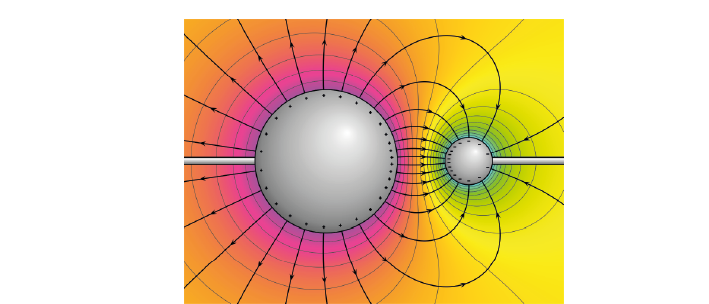
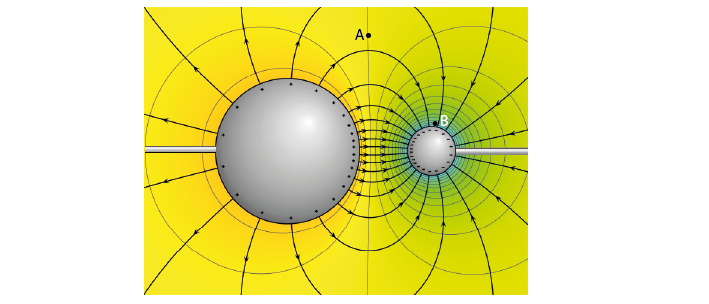
antonin feedback

diff --git a/source/EEA/theoryday1.rst b/source/EEA/theoryday1.rst
@@ -22,13 +22,12 @@ Introduction
 Welcome to the Open Ephys course on extracellular electrophysiology acquisition!
 **********************************************************************************
 
-.. raw:: html
-
+..
   <br>
   <center><iframe width="560" height="340" src="https://www.youtube.com/embed/vE5lZWPT4hQ" title="YouTube video player" frameborder="0" allow="accelerometer; autoplay; clipboard-write; encrypted-media; gyroscope; picture-in-picture" allowfullscreen></iframe></center>
   <br>
 
-Several biological processes in the body generate electrical signals, that we can then detect using an electrode made of a conducting material (see Table 1 for an overview). We can record signals generated through skeletal muscle contraction (EMG), or heartbeat (ECG). In neuroscience, we often use intracranial electrodes to measure action potential firing (spikes) or local field potentials (LFP). Electrodes outside the skull allow us to detect EEG non-invasively.
+Several biological processes in the body generate electrical signals, that we can then detect using an electrode made of a conducting material (see Table 1 for an overview). We can record signals generated through skeletal muscle contraction (Electromyography, EMG), or heartbeat (electrocardiogram, ECG). In neuroscience, we often use intracranial electrodes to measure action potential firing (spikes) or local field potentials (LFP). Electrodes outside the skull allow us to detect EEG non-invasively.
 
 The methods for acquiring these signals have many things in common, which we will discuss in the upcoming sections. We hope that you will learn to appreciate the broad similarities between these techniques, as well as understanding their differences, and what recording adjustments they require.
 When comparing different techniques, it’s important to understand:
@@ -66,7 +65,7 @@ When comparing different techniques, it’s important to understand:
      - Intracranial electrodes, e.g. tetrodes (4 insulated wires twisted together), Single-wire electrodes, Silicon probes.
      - 20-200 µV
 
-The first thing that all these electrophysiology techniques have in common is that the amplitude of the signals we are trying to measure is very small. Obien et al., (2015) gives us a direct comparison between the amplitude of an action potential measured inside the cell (measured in millivolts) and outside the cell (measured in microvolts). All electrophysiology techniques must detect tiny biological signals and convey them safely to a recording system (usually a computer) without losing or changing the signal.
+The first thing that all these electrophysiology techniques have in common is that the amplitude of the signals we are trying to measure is very small. The amplitude of an action potential measured inside the cell is in the range of millivolts, and an action potential recorded outside of the cell is in the range of measured microvolts (Obien et al., 2015). All electrophysiology techniques must detect tiny biological signals and convey them safely to a recording system (usually a computer) without losing or changing the signal.
 
 To do that, they will need to:
 
@@ -81,12 +80,12 @@ Most of the theory in this course will focus on intracranial extracellular recor
 
 What are we measuring?
 ###################################
-Neuronal electrical signalling is mediated by the flow of ions across the cell membrane, both into and out from the cell. These currents, whether at synaptic sites or during action potentials, can be measured as changes in the electric potential at a point in the extracellular space, compared to a reference point. This course will focus on how we get from tiny ion flows in the brain to a signal on our computer. First, we’ll go through a refresher on what these signals really are.
+Neuronal electrical signalling is mediated by the flow of ions across the cell membrane, both into and out from the cell. These currents, whether at synaptic sites or during action potentials, can be measured as changes in the electric potential at a point in the extracellular space, compared to a reference point. First, we’ll go through a refresher on what these signals really are.
 
-Charges and Current
-***********************************
-Our biological signals are usually generated by ions, either positively charged (Na\ :sup:`+`\, |K+|, |Ca2+|)  or negatively charged (|Cl-|).  Electrons are the negatively charged particles in our electrodes and wires (i.e., metal) that allow these to conduct electrical signals.
-Charged particles exert a force on other charged particles.
+Charged particles exert electric force
+*****************************************
+Our biological signals are generated by ions, either positively charged (Na\ :sup:`+`\, |K+|, |Ca2+|)  or negatively charged (|Cl-|).  Electrons are the negatively charged particles in our electrodes and wires (i.e., metal) that allow these components to conduct electrical signals.
+Charged particles exert an electric force on other charged particles.
 
 .. raw:: html
 
@@ -105,7 +104,7 @@ Charged particles exert a force on other charged particles.
       </div>
     </div>
 
-Coulomb’s law (Eq 1) describes that this force will have both magnitude (depending on the size of the charges and the distance between them) and direction (it will either attract or repel, depending on whether the charges have the same polarity).
+Coulomb’s law (Eq 1) describes that this force will have both magnitude (it will be bigger if the charges are larger or closer together) and direction (it will either attract or repel, depending on whether the charges have different or the same polarity).
 
 .. image:: ../_static/images/EEA/eea_fig-1.png
   :align: center
@@ -114,8 +113,7 @@ Coulomb’s law (Eq 1) describes that this force will have both magnitude (depen
 
   <center><i> Figure 1: The magnitude of electric force between charges depends on their charge and the distance between them.</i></center>
 
-
-We often represent electric force with electric field lines surrounding the particle, to show that charges in the vicinity will be influenced by its force in a particular direction.
+We often represent electric force using electric field lines surrounding the particle. These lines show that charges in the vicinity of the particle will be influenced by its force in a particular direction.
 
 .. image:: ../_static/images/EEA/eea_fig-2.png
   :align: center
@@ -124,8 +122,12 @@ We often represent electric force with electric field lines surrounding the part
 
   <center><i> Figure 2: Electric field lines show the direction of the force on a positive charge. Colour intensity represents electric potential</i></center>
 
+If a charged particle is free to move (for instance, it is an ion in the cytoplasm, and not bound to a membrane) and placed within an electrical field, then these forces acting on it will cause it to move in a certain direction.
 
-If a charged particle is free to move (for instance, it is in the cytoplasm, and not bound to a membrane) and placed within an electrical field, then these forces acting on it will cause it to flow in a certain direction, creating a current (I) measured in Ampere. The current tells us how much charge is moving per second.
+
+Currents are moving charges
+***********************************
+Moving charges create a current (I) measured in Ampere. The current tells us how much charge is moving per second.
 
 .. math::
 
@@ -137,19 +139,19 @@ If a charged particle is free to move (for instance, it is in the cytoplasm, and
   <center><i> Equation 2: Current (I) is equal to charge (Q) over time (t).</i></center>
   <br>
 
-
-By convention, the direction of this current is always the direction of positive charge movement. That means that when we talk about currents generated by a negatively charged ion, such as chloride, we describe it as a positive current moving in the opposite direction of the chloride ion.
+By convention, the direction of this current is always the direction of positive charge movement. When we talk about currents generated by a negatively charged ion, such as chloride, we describe it as a positive current moving in the opposite direction to the chloride ion.
 
 .. _refepot:
 
 Electric Potential Difference
 ***********************************
-Extracellular recordings measure the difference in electric potential (measured in Volts, and often called ‘voltage’) between two points. Electric potential is the ability to drive a current across a resistance; a recording of electric potential difference gives us a measure of the electric ‘pressure’ at one point compared to another. Just as a difference in gravitational potential energy can cause a river to flow down a mountain, a difference in electric potential can cause charged particles to flow from a region of higher potential towards a region of lower potential.
+If we want to create a current of ions across a membrane, we have to provide a driving force to make them move. Electric potential is the ability to drive a current across a resistance. The Electric Potential Difference (measured in Volts and often called 'voltage') is a description of how large the electrical driving force is at one point, compared to another point. Just as a difference in gravitational potential energy can cause a river to flow down a mountain, a difference in electric potential can cause charged particles to flow from a region of higher potential towards a region of lower potential until the charges no longer experience a net electrical driving force (at 'ground').
 
-The electric potential difference between two points tells us how much energy it would take to move a test charge from one point to the other. We are able to move a positive charge towards another positive charge, if we apply enough force in the opposite direction to overcome the repelling electric force. If we invest this energy and push our charges closer, we increase the difference in potential energy of the electric field at that location. If the charge is moved away, the potential energy decreases as it is converted to another form of energy, for instance to power a circuit.
+Figure 3 shows a negative and positive charge that are held in a certain position in space. They are not allowed to move, but still exert an attracting force on each other. If we let them move, they would flow towards each other.
+If we placed a +1 'test' charge at any point in this space, it would experience a net electric force. The vector description of the magnitude and direction of that force is the electric field, and is shown as field lines on Figure 3.
+The electric potential is represented as colour. We have a high, positive electric potential surrounding our positive charge, and a low (blue) negative potential surrounding our negative charge. The difference in electric potential between two points tells us how much energy we need to move a charge from one place to another. If we placed our positive +1 test charge at point A, it would follow the gradient of the electric potential, converting that electric potential into other forms of energy, until it reached the negative particle (point B). We could use that converted potential energy to power something else. In contrast, to move the same particle from point B to point A, we would need to provide additional energy to counteract the repelling force generated by the positive point charge. If we add more point charges (that are not allowed to move) the generated forces will sum, giving a more complex map of electric potentials at every point in space.
 
-Figure 3 shows a negative and positive charge that are held in a certain position in space. They are not allowed to flow towards each other, but still exert an attracting force on each other. At any point in this space, the forces from the charges interact to give a net electric force that would be experienced by a positive +1 'test’ charge placed at that point. The vector description of the magnitude and direction of that force, is the electric field, shown as field lines on Figure 3. The electric potential is represented as colour. The difference in electric potential between two points, tells us how much energy is involved in move from one place to another. A negative charge can easily ‘fall’ towards the large positive charge, and we could use that converted potential energy to power something else. In contrast, we would need to provide additional energy to push a positive charge towards another positive charge, as we would have to counteract the repelling force generated by the positive point charge. If we add more point charges (that are not allowed to move) the generated forces will sum, giving a more complex map of electric potentials at every point in space.
-
+When we do extracellular recordings, we are measuring the difference in electric potential (measured in Volts, and often called ‘voltage’) between the tip of our electrode and our ground or reference point.
 To describe the height of a mountain, there is no such thing as absolute altitude; instead, we use ‘sea level’ as our point 0 and measure from there. It doesn’t matter which point we take as point 0, as long as we use the same value when we are comparing measurements. The same goes for voltage: we pick a point to call ‘0 V’ and compare the rest of the circuit to that. This point can be the negative terminal of a battery, the extracellular fluid, or a point at infinity, far from all sources of electric potential (Einevoll et al., 2013).
 
 .. image:: ../_static/images/EEA/eea_fig-3.png
@@ -160,25 +162,44 @@ To describe the height of a mountain, there is no such thing as absolute altitud
   <center><h5 class="card-title" >Figure 3: Electric potential mapped around a positive and negative charge.
   <p style="font-size:12px"> © 2010 Geek3 /CC BY-SA 4.0, commons.wikimedia.org/wiki/File:VFPt_metal_balls_plusminus_potential%2Bcontour.svg </p></h5></center>
 
+Resistance
+***********************************
+Resistance opposes current flow. If you increase the resistance in a circuit without increasing the electric potential difference, current will be reduced.
+
+This is described by Ohm's law:
+
+.. math::
+
+  I = V/R
+
+.. raw:: html
+
+  <center><i> Equation 3: Current (I) is equal to voltage (V) over resistance (R).</i></center>
+  <br>
+
 
 Neurons, Ions and Membrane Potential
 ***************************************
-Neuronal activity relies mainly on ions such as |Na+|, |K+|, |Ca2+|. Whenever these charges flow, we have a current. Resistance is a measurement of how difficult it is for current to flow. In neurons, the resistance to current flow is usually changed by opening or closing ion channels in the membrane. The more channels are open, the lower the resistance (to a certain ion), the more charge can flow in or out of the cell.
-As described above, the electric potential difference between two points tells us how much ability there is to drive a current between these points across a resistance. A neuron typically has a resting membrane potential of around -70 mV compared to the extracellular fluid, if we decide that the extracellular fluid has 0 V. This electric potential difference tells us that, to move a +1C charge from inside the neuron to outside the neuron, will require 70 mJ of energy. Indeed, neurons have to actively maintain their intracellular fluid at this lower potential with respect to extracellular space, by using ATP to power 3 |Na+| /2 |K+| pumps, which move |Na+| out of the cell and reduce the amount of positive charge inside the cell.
+Neuronal activity relies mainly on ions such as |Na+|, |K+|, |Ca2+|. Whenever these charges flow, we have a **current**. In neurons, our **resistance** to current flow is formed by the permeability of the cell membrane to our ion, and changed by opening or closing ion channels in the membrane. When more channels open, the resistance to a certain ion is lowered, and the charge is able to flow in or out of the cell.
+
+The driving force in this scenario is the membrane potential, i.e. the difference in electric potential between the inside of the cell membrane and the extracellular fluid. A neuron typically has a resting membrane potential of around -70 mV compared to the extracellular fluid, if we decide that the extracellular fluid has 0 V.
+
+Ions in neurons are influenced by electric forces and a second driving force, namely their concentration gradients. Ions will tend to diffuse away from areas where there is a high concentration of the ion, to areas with a lower concentration. The interaction of the concentration and electrical driving forces is the electrochemical gradient and this balance is described by the Nernst equation, read `Wright 2004 <https://journals.physiology.org/doi/pdf/10.1152/advan.00029.200>`_ for a clear refresher on this, and to understand how the -70mV is maintained by the cell.
 
 Neuronal output: Action Potentials
 =====================================
-When an input signal (a receptor potential or synaptic potential) depolarizes the cell membrane, this change in membrane electric potential can open |Na+| ion channels. |Na+| can then follow its concentration and electrical gradient from outside the cell, where the |Na+| concentration is high, to the inside of the cell, where |Na+| concentration is low and the intracellular medium has a lower potential (Kandel, Schwartz, & Jessel, 2000). In neurons, voltage-sensitive |Na+| channels are usually concentrated at the initial segment of the axon, and it is therefore more likely that an action potential will be generated at the initial segment of the axon, rather than in other regions of the cell. The sudden influx of |Na+| ions through these voltage sensitive channels in the cell membrane upsets the balance of processes that maintain the neuron at its resting equilibrium, and leads to a series of further changes which constitute the action potential (Hodgkin and Huxley, 1939).
-The extracellular potential Vec at position re, with respect to a point at infinity, can be computed with the following equation (Einevoll et al., 2013; Nunez and Srinivasan, 2006):
+When an input signal (a receptor potential or synaptic potential) depolarizes the cell membrane, this change in membrane electric potential can open |Na+| ion channels, greatly reducing membrane resistance to |Na+|. The reduction in membrane resistance to |Na+| depolarises the cell. |Na+| can then follow its concentration and electrical gradient from outside the cell, where the |Na+| concentration is high, to the inside of the cell, where |Na+| concentration is low and the intracellular medium has a lower potential (Kandel, Schwartz, & Jessel, 2000). In neurons, voltage-sensitive |Na+| channels are usually concentrated at the initial segment of the axon, and it is therefore more likely that an action potential will be generated there rather than in other regions of the cell. The subsequent opening of |K+| channels begins the process of returning the membrane potential to resting conditions (Hodgkin and Huxley, 1939).
+
+When we perform extracellular recordings, we are measuring the effect of these currents outside of the cell. The extracellular potential Vec at position re, with respect to a point at infinity, can be computed with the following equation (Einevoll et al., 2013; Nunez and Srinivasan, 2006):
 
 .. image:: ../_static/images/EEA/eea_fig-68.png
   :align: center
 
 .. raw:: html
 
-  <center><i> Equation 3: The point source equation.</i></center>
+  <center><i> Equation 4: The point source equation.</i></center>
 
-Conceptually, this point-source equation (Equation 3) is key for computing the extracellular potential in response to any transmembrane current (Buzsaki et al., 2012). In(t) represents the nth point current source and re – rn  represents the distance between the point source and the position of measurement, with n = 1...N, where N is the number of individual point sources and ρ is the extracellular conductivity. If the extracellular medium is considered homogeneous and isotropic, we can use a constant conductivity value (Einevoll et al., 2013).
+Conceptually, this point-source equation (Equation 4) is key for computing the extracellular potential in response to any transmembrane current (Buzsaki et al., 2012). In(t) represents the nth point current source and re – rn  represents the distance between the point source and the position of measurement, with n = 1...N, where N is the number of individual point sources and ρ is the extracellular conductivity. If the extracellular medium is considered homogeneous and isotropic, we can use a constant conductivity value (Einevoll et al., 2013).
 
 |
 
@@ -196,7 +217,7 @@ Fig 4 depicts the time-varying extracellular potential at given locations (|Re|)
 
 Neuronal input: Postsynaptic potentials
 ============================================
-Slower frequencies in extracellular recordings are the focus of the LFP or EEG. These are thought to be largely generated by postsynaptic potentials, as these occur over slower timescales (10s of ms) than the action potential (1-2 ms), so there is more opportunity for signals from multiple cells to summate and result in larger signals. When activated, AMPA and NMDA synapses mediate excitatory currents as |Na+| (AMPA) and |Ca2+| (NMDA) enter the cell. This ‘sink’ of positive charge into the cell will induce a return current of positive charge (a ‘source’). Because of this, the direction of deflection caused by an excitatory current in an extracellular recording will depend on where the electrode is relative to the neuron.
+Slower frequencies in extracellular recordings are the focus of the LFP or EEG. These are thought to be largely generated by postsynaptic potentials, as these occur over slower timescales (10s of ms) than the action potential (1-2 ms), so there is more opportunity for signals from multiple cells to summate and result in larger signals. When activated, AMPA and NMDA synapses mediate excitatory currents as |Na+| and |Ca2+| enter the cell. In our extracellular recordings, the direction of a deflection caused by an excitatory current (whether it is positive or negative) will depend on where the electrode is relative to the neuron.
 
 The extracellular space
 ============================================
@@ -281,13 +302,12 @@ The tungsten microelectrode is considered a ‘polarized’ electrode. There are
 
 Non-polarized electrodes
 ***********************************
-The well-known silver-silver chloride (Ag-AgCl) electrode approaches the ideal nonpolarizable type. In these ‘charge transfer’ electrodes, surface-confined species are oxidized and reduced (Bard & Faulkner, 2001, Merrill et al., 2005).
-Non-polarizable electrodes have a small |Re|, allowing charge-transfer across the electrode-solution interface. If Re is small, it bypasses the capacitor |Ce|, thus providing a DC path for the measurement of steady potential levels.
+The well-known silver-silver chloride (Ag-AgCl) electrode approaches the ideal nonpolarizable type. In these ‘charge transfer’ electrodes, surface-confined species are oxidized and reduced (Bard & Faulkner, 2001, Merrill et al., 2005). Non-polarizable electrodes have a small |Re|, allowing charge-transfer across the electrode-solution interface. If Re is small, it bypasses the capacitor |Ce|, thus providing a direct path for the measurement of steady potential levels.
 
 Polarized electrodes
 ***********************************
-Alternatively, the transition from ion flow in the solution to electron flow in the electrode could be of capacitive nature, involving the charging and discharging of the electrode-solution double layer. This happens with noble metal (e.g., stainless steel, gold and platinum) electrodes, where no charge transfer can occur across the metal-solution interface. Instead, electrode polarization is required to motivate current flow in the external recording circuit. In metals, such as aluminium and copper, charge transfer occurs and causes metal’s deterioration (i.e., oxidation).
-The value of Re of polarized electrodes is large, in the order of several megohms, and the effective equivalent circuit is dominated by the capacitor, Ce. Therefore, processes in polarizable electrodes are purely electrostatic and caused by the charging and discharging of the double layer capacitance. Although charge does not cross the interface, external currents can flow when the potential or solution composition changes (Cooper, 1971).
+Alternatively, the transition from ion flow in the solution to electron flow in the electrode could be of capacitive nature, involving the charging and discharging of the electrode-solution double layer. This happens with noble metal (e.g., stainless steel, gold and platinum) electrodes, where no charge transfer can occur across the metal-solution interface. Instead, electrode polarization is required to induce current flow in the rest of the recording circuit.
+The value of Re of polarized electrodes is large, in the order of several megaOhms, and the effective equivalent circuit is dominated by the capacitor, Ce. Therefore, processes in polarizable electrodes are purely electrostatic and caused by the charging and discharging of the double layer capacitance. Although charge does not cross the interface, currents inside the recording system can flow when the potential or solution composition changes (Cooper, 1971).
 
 Acknowledgements
 ###################################
@@ -348,3 +368,5 @@ Nunez, P.L., and Srinivasan, R. (2006). Electric fields of the brain: the neurop
 Obien, M.E.J., Deligkaris, K., Bullmann, T., Bakkum, D.J., and Frey, U. (2015). Revealing neuronal function through microelectrode array recordings. Front. Neurosci. 8.
 
 Ray Cooper. (1971). Recording Changes in Electrical Properties in the Brain in Methods of Psychobiology. (R. D. Myers, Ed.) (Volume 1). London and New York: Academic Press.
+
+Wright, S. (2004). Generation of resting membrane potential. Adv Physiol Educ. 28: 139-142.

diff --git a/source/EEA/theoryday2.rst b/source/EEA/theoryday2.rst
@@ -41,13 +41,7 @@ Impedance
   <center><iframe width="560" height="340" src="https://www.youtube.com/embed/fVloDI4b1ts" title="YouTube video player" frameborder="0" allow="accelerometer; autoplay; clipboard-write; encrypted-media; gyroscope; picture-in-picture" allowfullscreen></iframe></center>
   <br>
 
-If we apply an alternating voltage to a resistor, capacitor or circuit, and measure the current flow, we can determine the impedance Z, measured in Ohm. The impedance represents opposition to current flow, allowing us to describe the relationship between voltage and current for time-varying signals. Just as with resistance and Ohm’s Law, the impedance Z assumes an AC current of a specific frequency and can be computed as:
-
-.. math::
-
-  Z = \frac{V(t)}{I(t)}
-
-Impedance can be represented as a vector defined in terms of magnitude and phase (θ). Therefore, impedance provides both the magnitude and phase relationship between V and I over a broad frequency range (from 1 Hz to 10 kHz). Let’s examine the response of resistors and capacitors to an applied sinusoidal voltage (an alternating signal).
+If we apply a direct voltage (e.g. a battery) to a resistor or circuit and measure the current flow, we can determine the resistance. What happens when we apply an alternating signal instead, such as a sinusoidal wave or our neuronal signals? In these cases, we need to use Impedance (Z), measured in Ohm. The impedance represents opposition to current flow measured in both magnitude and phase, which allows us to describe the relationship between voltage and current for time-varying signals. We can measure impedance values of a component at different frequencies, so that we understand both the magnitude and phase relationship between V and I over a broad frequency range (from 1 Hz to 10 kHz). Let’s examine the response of resistors and capacitors to an applied sinusoidal voltage (an alternating signal).
 
 Resistors
 ***********************************
@@ -97,13 +91,17 @@ To get more of our voltage |Ve| into our recording system, we can adjust this ra
 Electrode Impedance
 ***********************************
 The impedance of an electrode is a measure of its ability to resist the flow of charge across the electrode-solution interface (i.e., across the electronic conductor (metal) and ionic conductor (extracellular fluid)). It is the impedance of the whole electrode equivalent circuit we built yesterday, consisting of the resistance of the solution (|Rs|), the resistance of the electrode metal (|Rm|) and the resistance (|Re|) and capacitance (|Ce|) of the double layer at the electrode-solution interface.
-Since |Re| is large, in the order of several megohms, and |Rs| and |Rm| are low (Ohms), the equivalent circuit is dominated by the double-layer capacitor, |Ce|.  Therefore, in practice, the electrode is primarily a capacitor in series with |Rm| and |Rs| , whose leakage resistance Re, while not negligible, does not make an important contribution (Robinson, 1968).
+
+.. image:: ../_static/images/EEA/eea_fig-8.png
+  :align: center
+
+Since |Re| is large, in the order of several megaOhms, only very little current can take this route. Therefore, in practice, the electrode is primarily the double-layer capacitor |Ce| in series with |Rm| and |Rs| (Robinson, 1968).
 
 So far, we know that the impedance magnitude of a capacitor decreases with increased capacitance, and that electrode impedance is dominated by double layer capacitor, |Ce|. Therefore, to decrease our electrode impedance, we need to increase the electrode capacitance |Ce|. How can we increase the value of |Ce|?
 
 .. math::
 
-  C = \frac{\epsilon}{A}
+  C = \frac{\epsilon A}{d}
 
 The capacitance of a capacitor, in Farads, is proportional to the area of the capacitor plates (A) divided by the distance (d) between them. ε is the electrostatic constant. To make C bigger, we can increase A by increasing the surface area of the electrode. We can also coat electrodes with materials complemented with pseudo-capacitance, such as conducting polymers or transition metal oxide films, such as IrOx (Green, Lovell, Wallace, & Poole-Warren, 2008; Musa, 2011).
 Electrode impedance magnitude is often measured at 1 kHz, before and after electrode coating, showing an impedance decrease up to 10-fold (Neto et al., 2018). By increasing the capacitance (|Ce|) of our electrode, the electrode impedance (|Ze|) will be smaller, preserving more of our signal amplitude at |Vin| (|Vin| = |Vec|). Electrodes impedance values are in the kOhm to MOhm range at 1 kHz.
@@ -131,9 +129,9 @@ While doing that, the operational amplifier draws basically no current on its in
 
 If we connect the output of the operational amplifier to the ‘-’ input, then the following happens:
 
--	Initially, the operational amplifier will output a very high voltage if the difference across it inputs is positive, and a very low one if its negative (like we said, the gain is extremely high).
+-	Initially, if '+' is higher than '-', the operational amplifier will output a very high voltage.
 
--	If we connect the output back to ‘-’, this behaviour will keep the voltages at its ‘+’ and ‘-’ inputs the same. Any positive difference between its input terminals will lead to a higher voltage applied to the ‘-’ input, bringing them back together, and vice-versa.
+-	If we connect the output back to ‘-’, the amplifier will continue to output a high voltage, but now this voltage starts to increase the value of '-', bringing the value of the inputs closer together. This behaviour will keep the voltages at its ‘+’ and ‘-’ inputs the same.
 
 -	Now, *the ‘-’ input is always actively driven to follow the voltage on the ‘+’ input*. This means that whatever voltage we connect to the ‘+’ input can be measured just by looking at the ‘-’ input (which is connected to / the same as the output).
 
@@ -191,7 +189,7 @@ The 'effective amplifier input impedance', |Za|’ is the total impedance to the
 
 .. math::
 
-  Vin = \frac{Za'}{Za' + Ze} Ve
+  Vin = \frac{Za'}{Za' + Ze} Vec
 
 |Za|' = 'effective amplifier' impedance (|Za| + Z |Csh| + |Rsh|)
 
@@ -213,7 +211,7 @@ Differential Amplifiers
 
   <center><iframe width="560" height="340" src="https://www.youtube.com/embed/91SVSdoEFzU" title="YouTube video player" frameborder="0" allow="accelerometer; autoplay; clipboard-write; encrypted-media; gyroscope; picture-in-picture" allowfullscreen></iframe></center>
 
-The amplification of the potential difference between the microelectrode and the reference electrode (on the order of microvolts) is a crucial step, and is accomplished with differential amplifiers that amplify the differences, rejecting the noise that is often introduced as common-mode potential in the circuit (i.e., noise identical in the recording and reference electrodes typically caused by motion artifacts and capacitive coupling of the body and electrode lead with power line fields (Nunez & Srinivasan, 2009)). The grounding assists the common-mode rejection properties of the amplifier by allowing it to more accurately measure differences of potential between two recording electrodes (Cadwell and Villarreal, 1999). (Nunez, pag 43,44). Therefore, high gain differential amplifiers are used to boost the signals to the larger voltage levels (|Vout| = gain x |Vin|) required by the ADC and to reject common-mode noise.
+The amplification of the potential difference between the microelectrode and the reference electrode (in the order of microvolts) is a crucial step, and is accomplished with differential amplifiers that amplify the differences, rejecting the noise that is often introduced as common-mode potential in the circuit (i.e., noise identical in the recording and reference electrodes typically caused by motion artifacts and capacitive coupling of the body and electrode lead with power line fields (Nunez & Srinivasan, 2009)).
 
 Acknowledgements
 ###################################

diff --git a/source/EEA/eeadocsindex.rst b/source/EEA/eeadocsindex.rst
@@ -23,6 +23,8 @@ EEA Course Documents
 Materials for students
 ############################
 
+The 'theory' documents are meant for students to read before the online sessions, the 'exercises' documents contain exercises and more theory that will be covered together with the teachers. 
+
 Preparation
 ===================
 :ref:`Software to Download <refeeasoftware>`
